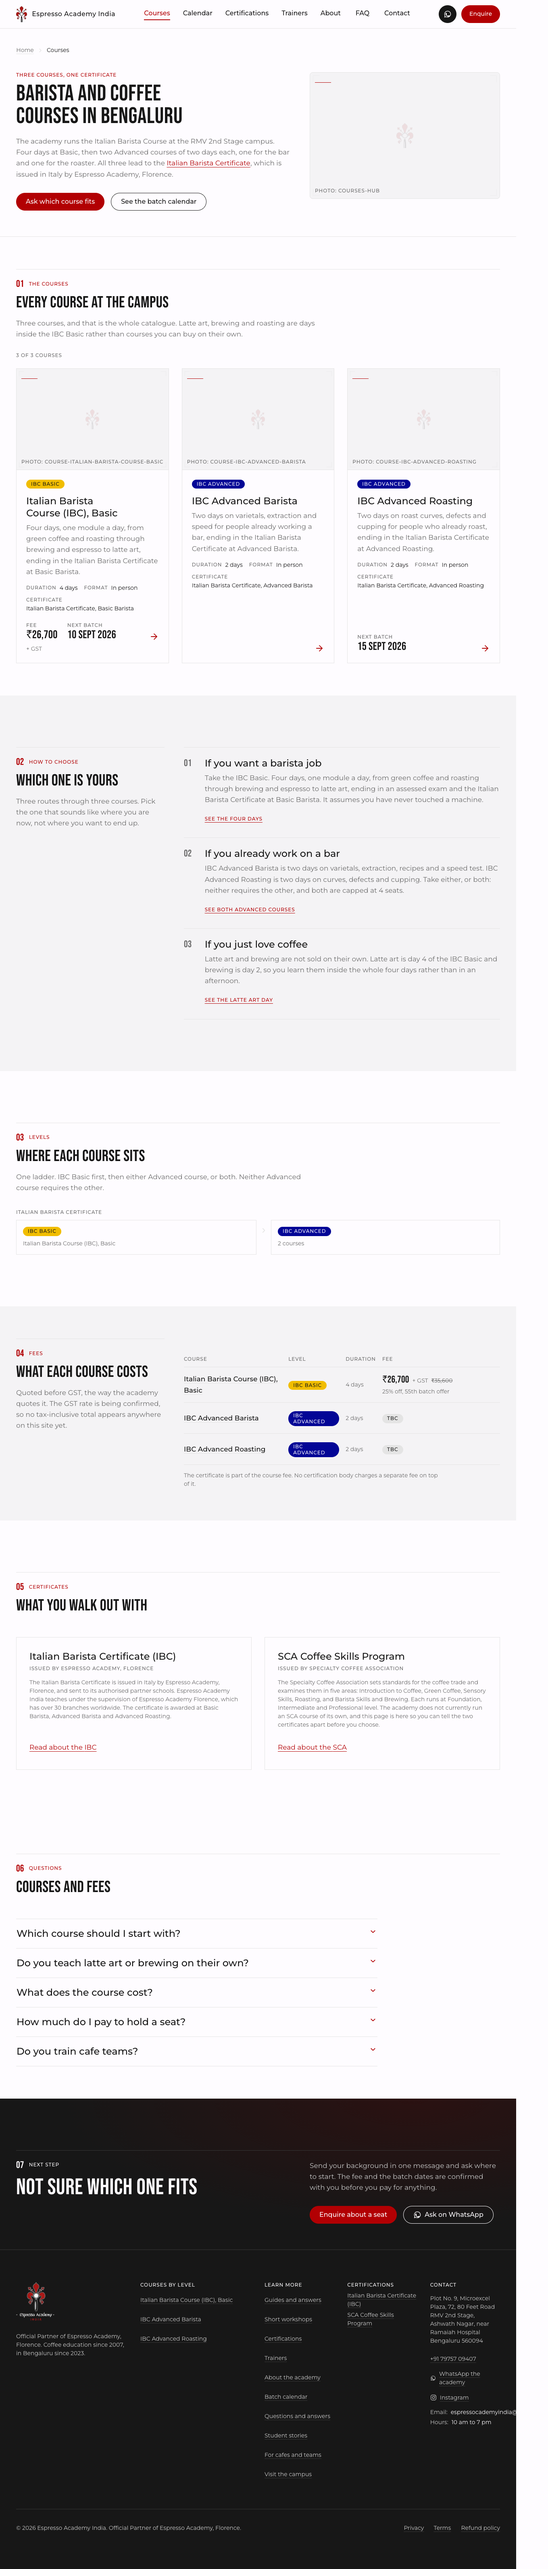
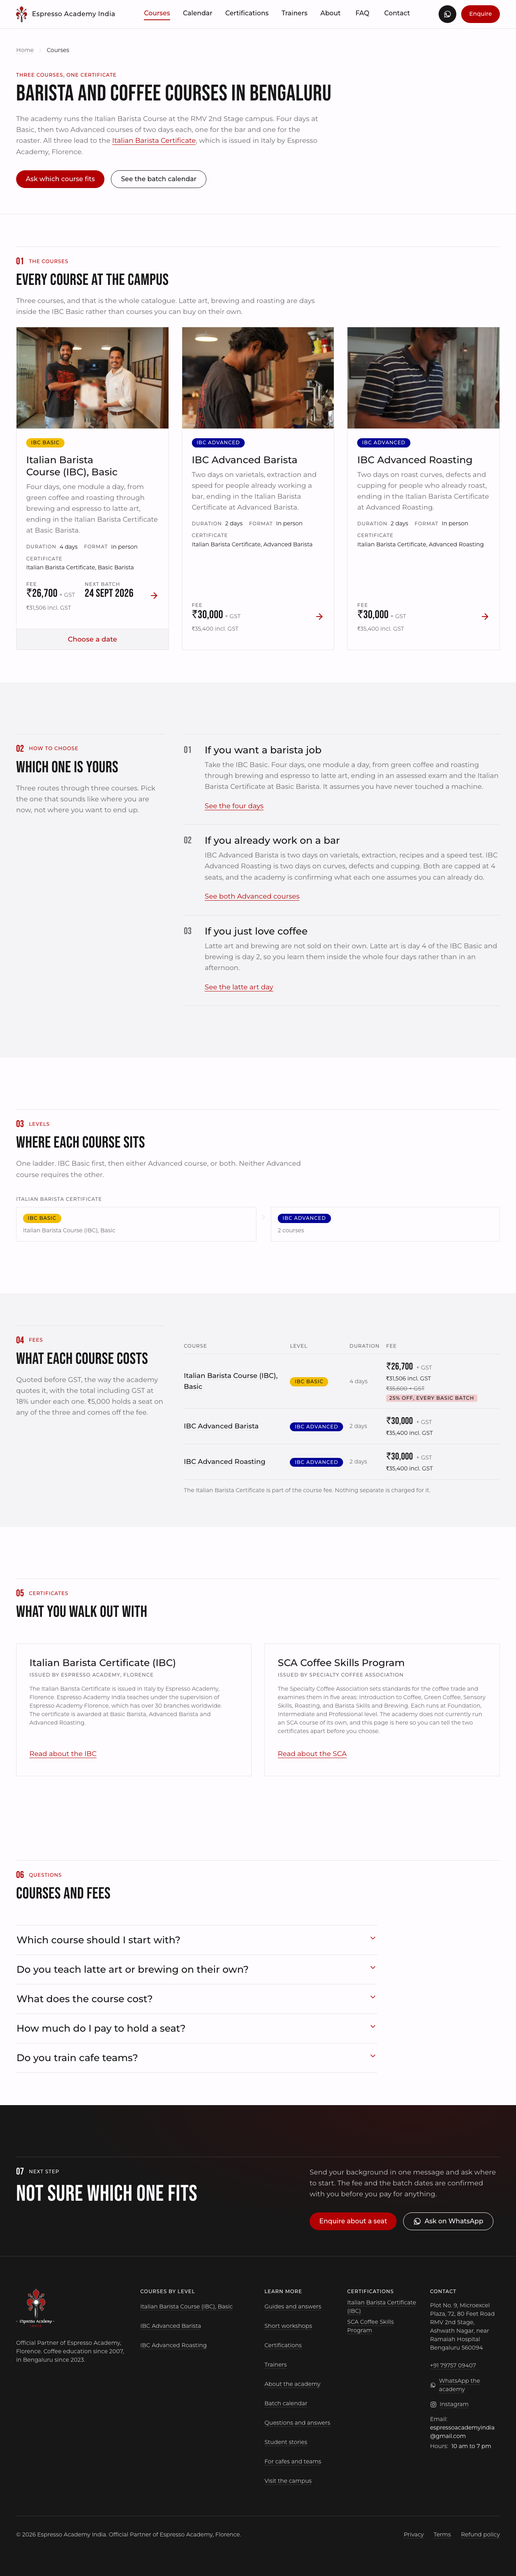
perf(audits): the nightly was timing a redirect, and the photographs made the site faster
scripts/lighthouse.mjs has measured /courses/latte-art since build 2. The catalogue
rebuild retired that course; it has been answering 301 ever since, so every nightly
has timed a redirect rather than a course page. It now walks the three real courses
plus /about and /for-cafes — the routes the photography touches and the two photo
slots nothing measured.

Three other changes to it, each one something this run needed:

- Every route is fetched twice before it is timed. Against the deployment four of
  these are server-rendered on demand, and /for-cafes came back at performance 80
  and FCP 1.9s cold against 100 and 1.0s for its neighbours. That is Vercel's
  scheduler, not the page.
- The table names the LCP element. With photographs on the page, which element was
  measured is the interesting half of the row: a photograph and a paragraph are
  improved by different things.
- A route Lighthouse cannot load is skipped and named, not fatal.
  /book/instance-e2e-test-batch needs the batch the ci dataset seeds, so against a
  production-dataset build it 404s and took the whole run down on its last row,
  after nine routes had already been measured and printed.

docs/audits/perf-photos.md is the before and after. The short version: no route
regressed, and the three routes that gained an above-the-fold photograph are now the
fastest on the site. The control is the part worth keeping — /calendar and /enquire
[…]

diff --git a/docs/audits/perf-photos.md b/docs/audits/perf-photos.md
@@ -1,0 +1,107 @@
+# Performance: the day the photographs landed
+
+15 September 2026. Six of the client's photographs were wired into the slots in
+`docs/images-manifest.md`: the home hero, all three course photos, the lead frame of the About
+gallery, and the for-cafes section. Everything still without a file keeps its branded placeholder.
+
+Lighthouse mobile, simulated throttling, `node scripts/lighthouse.mjs`. The question this file
+exists to answer is the one CLAUDE.md budget 7 asks — did any route regress past 90, or past 2.5s
+LCP — and the one the known-limitations note in `docs/STATUS.md` has been asking since build 2:
+whether an image LCP, preloaded and served as AVIF, is better than the text LCP the site had.
+
+## The short answer
+
+No route regressed. The three routes that gained an above-the-fold photograph got **faster**, and
+they are now the fastest routes on the site, because a preloaded AVIF beats a paragraph that has to
+wait for Montserrat.
+
+## Local production build, before and after
+
+`pnpm build && pnpm start`, same machine, same session. CPU benchmark index 4072 to 4207
+throughout, so the readings are comparable.
+
+| Route | Perf before | Perf after | LCP before | LCP after | LCP element after |
+|---|---|---|---|---|---|
+| `/` | 94 | **97** | 3.13 s | **2.6 s** | the hero photograph |
+| `/courses` | 94 | **97** | 3.14 s | **2.6 s** | intro paragraph (no photo slot filled) |
+| `/courses/italian-barista-course-basic` | 98 | **98** | 2.48 s | **2.5 s** | the course photograph |
+| `/courses/ibc-advanced-barista` | 98 | **98** | 2.48 s | **2.5 s** | the course photograph |
+| `/courses/ibc-advanced-roasting` | 98 | **98** | 2.49 s | **2.5 s** | the course photograph |
+| `/about` | 95 | 94 | 2.99 s | 3.1 s | intro paragraph |
+| `/for-cafes` | 94 | 94 | 3.14 s | 3.1 s | intro paragraph |
+
+CLS was 0.000 on every route before and after. Six photographs landed without a single layout
+shift, because every frame reserves its box from an aspect class before the bytes arrive.
+
+**Read the `/about` and `/for-cafes` rows as noise, not as a regression.** Two routes that this
+work never touched were measured in the same run as a control:
+
+| Control route | LCP | LCP element |
+|---|---|---|
+| `/calendar` | 3.1 s | a paragraph |
+| `/enquire` | 3.1 s | a paragraph |
+
+3.1s is this workstation's floor for a text LCP. Every route whose LCP is still a paragraph reads
+3.1s whether or not a photograph was added to it; every route whose LCP is now a photograph reads
+2.5 to 2.6s. That is the finding.
+
+### On the spread in these numbers
+
+The same commit, measured three times in a row on `/courses/italian-barista-course-basic`, gave
+2487ms, 2482ms and 3140ms. `docs/audits/perf-build2.md` already says why: Lighthouse's simulated
+throttling on this machine tracks the machine more than it tracks the site. A single local reading
+is not evidence of a change. The deployed numbers below are the ones that matter, and they are the
+ones the ≤2.5s budget is written against.
+
+## The deployment, before
+
+Measured against `https://espresso-academy-india.vercel.app` immediately before this work was
+pushed — the previous `main`, with no photographs and without the visual pass. Each route was
+warmed twice first.
+
+| Route | Perf | LCP | CLS |
+|---|---|---|---|
+| `/` | 100 | 1.39 s | 0 |
+| `/courses` | 100 | 1.24 s | 0 |
+| `/courses/italian-barista-course-basic` | 96 | 2.73 s | 0 |
+| `/courses/ibc-advanced-barista` | 96 | 2.70 s | 0 |
+| `/courses/ibc-advanced-roasting` | 100 | 1.23 s | 0 |
+| `/about` | 100 | 1.38 s | 0 |
+| `/for-cafes` | **80** | **4.75 s** | 0 |
+
+`/for-cafes` is a pre-existing problem on the deployment and has nothing to do with photography —
+this reading is of the build *without* any. It is not a cold start: it was warmed twice and read
+the same both times. Time to first byte was 30ms, in line with every other route; the LCP breakdown
+puts 1390ms into **element render delay** against 99ms on `/about`, and FCP at 1.9s against 1.0s.
+Worth a separate look; recorded here so it is not mistaken for something the photographs did.
+
+## The deployment, after
+
+See the table appended below once the deploy that carries this change has been measured.
+
+## What was changed for performance, and what was not
+
+- The hero frame became **3:2 at every width**, where it had been 4:5 on a phone and 3:2 from
+  `md`. Primarily a design fix — the 4:5 centre crop cut the second subject through the eye line —
+  but it also ended a 1.59x upscale on what is now the LCP element, because the browser was
+  fetching an image sized for a 100vw box and then cropping it taller. Fetched width at 390/DPR2
+  went from `w=828` for a box needing 1312 device pixels to `w=750` for a box needing 750.
+- The `courses-hub` placeholder **stopped rendering** while its file is missing, so `/courses` no
+  longer preloads the placeholder's decorative logo watermark on the LCP path, and the hero runs
+  full width until the academy sends the file.
+- `priority` was **left alone**. It is deprecated in Next 16 in favour of `preload`
+  (`node_modules/next/dist/docs/01-app/03-api-reference/02-components/image.md`), still supported,
+  and emits no warning. Renaming it across four components and every call site is a migration, not
+  a photography change, and doing it in the same commit as a visual change would make a regression
+  in either one hard to attribute. Logged in `docs/STATUS.md` as a follow-up.
+- The hero's 400ms reveal was **left on the LCP element**. It is a clip-path wipe rather than a
+  fade, so the first pixels paint a frame into the animation, and the measurement above shows the
+  photograph routes are the fastest on the site with it running.
+
+## Method note
+
+`scripts/lighthouse.mjs` was fixed in the same commit. It had been measuring `/courses/latte-art`,
+a course the catalogue rebuild retired, which has been answering 301 rather than rendering a page —
+so every nightly since was timing a redirect. It now walks the three real courses plus `/about` and
+`/for-cafes`, warms each route before timing it, names the LCP element in its table, and skips a
+route it cannot load instead of taking the whole run down on the last row.
